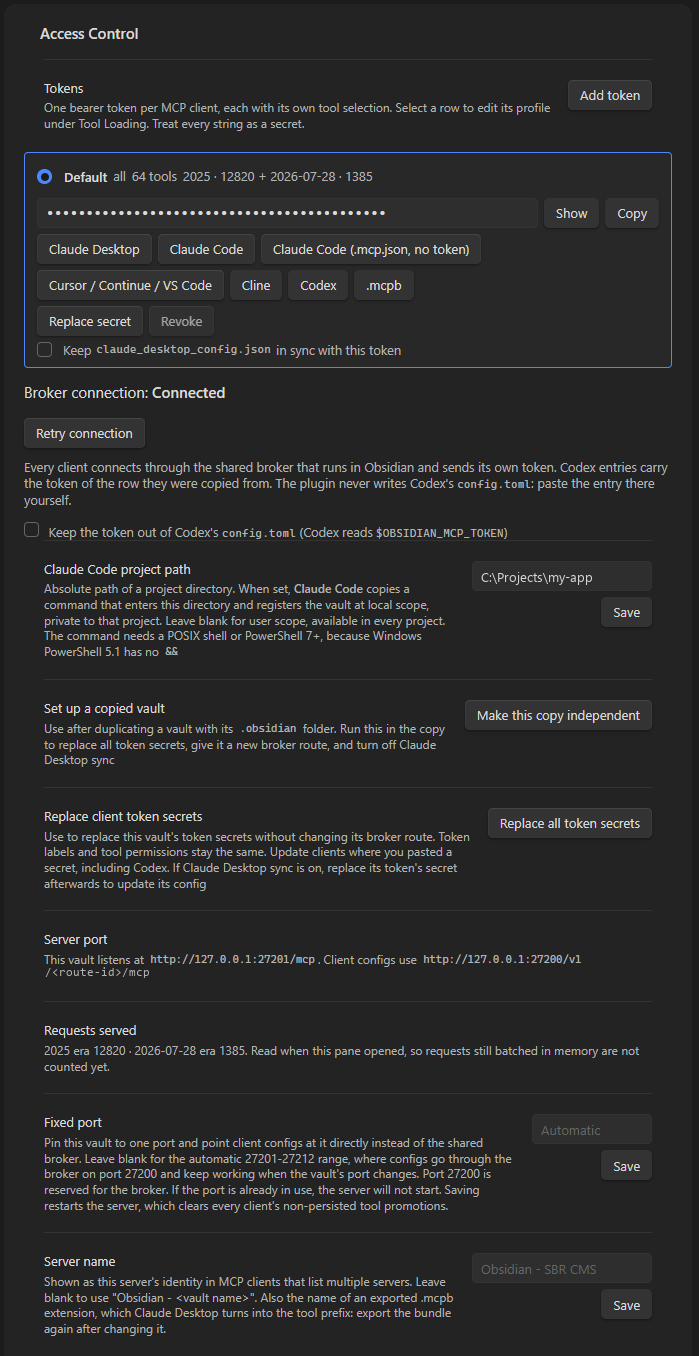
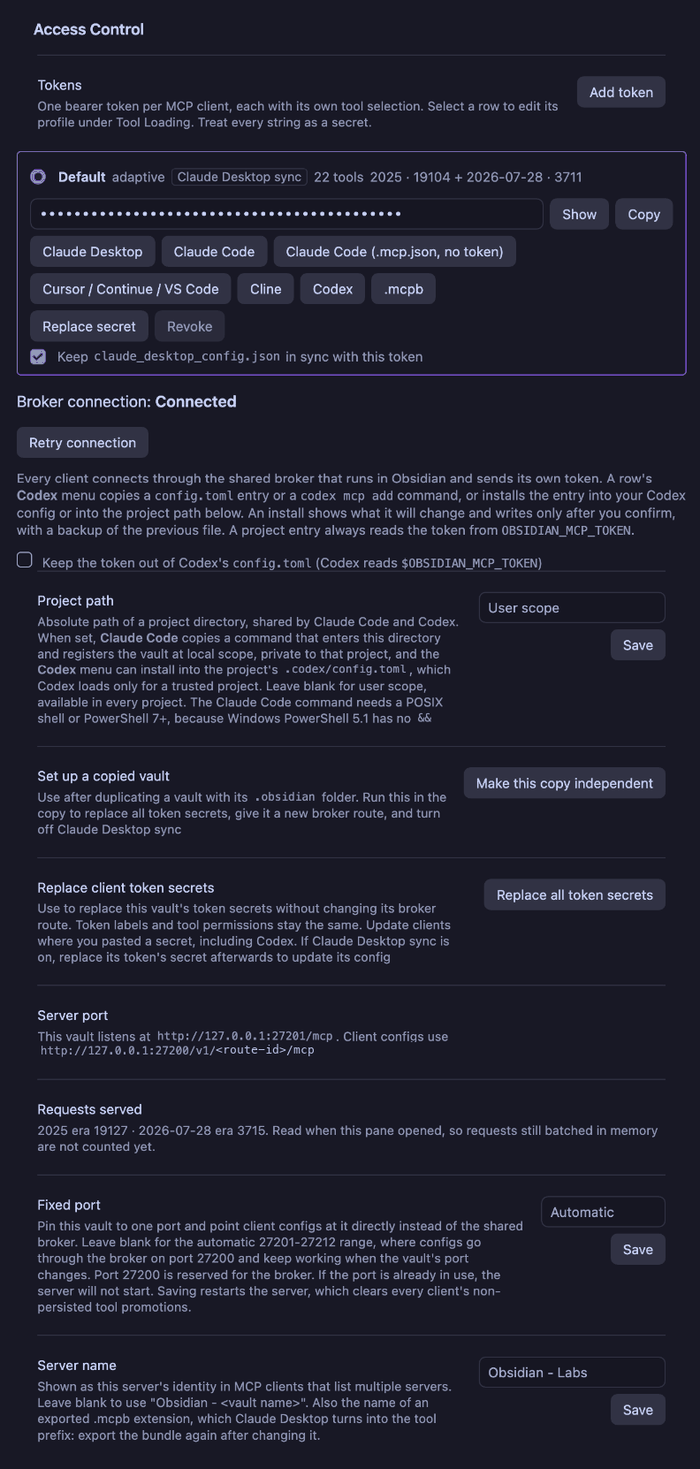
docs: add 3.0.1 troubleshooting row and refresh Access Control image
The README gets a row for the stuck "Vault location changed" case on
linked plugin folders. The screenshot shows the 3.0 settings, with the
route ID masked.

diff --git a/README.md b/README.md
@@ -564,6 +564,7 @@ curl http://127.0.0.1:27200/_obsidian_mcp_broker/health
 | Notice: "Port 27200 is used by another program or by a vault server…" | A vault running an older MCP Connector version, a vault whose fixed port is 27200, or an unrelated program holds the broker port. Update or close that vault, change its fixed port, or stop the program. Direct vault ports keep working meanwhile, and the plugin keeps retrying |
 | Notice: "Another open vault runs the shared broker with a different MCP Connector version" | Update the plugin in every open vault |
 | Broker connection: **Refused** | The broker refused the vault's registration, and the message names the cause and what to change. On macOS and Linux the broker admits a vault only when its `plugins` folder, its plugin folder, `.obsidian/plugins/mcp-tools-istefox` by default, and the `data.json` in it belong to you and are not writable by others or by a group other than your own primary group. `chmod go-w` on each removes that write access. A `data.json` over 1 MB is refused on every system. The route reconnects on its own once the cause is fixed, and the copy buttons give the vault's direct URL meanwhile |
+| Connection says **Vault location changed** after updating from 2.11 or 2.12, and the broker never registers | The plugin folder is a link, such as a development checkout or a synced folder. 3.0.0 saved its location in a different form from 2.x and took the vault for a moved copy. Update to 3.0.1, which recognizes the old form and replaces it on the next start. On 3.0.0, choose **This vault was moved** if this is the same vault, or **Make this copy independent** if it is a copy |
 | `404 route not found` on `/v1/<route-id>/mcp` | The vault that owns this route is not open, or its route changed through **Make this copy independent**. Open that vault, or copy the config again from its token row |
 | `409` on `http://127.0.0.1:27200/mcp` | The config's token exists in more than one open vault, usually a copied vault. In the copy, use **Make this copy independent**, then copy the client config again from the right vault's token row |
 | Codex cannot connect to `127.0.0.1:27206`, or gets `401` after an upgrade | The broker moved to port 27200 and no longer swaps a Codex credential. On the token row Codex should use, choose **Codex** → **Install into user Codex config…**: The install migrates the old entry to the current address and that row's token, keeping its policy settings. Then restart Codex |

diff --git a/CHANGELOG.md b/CHANGELOG.md
@@ -11,6 +11,11 @@ Format follows [Keep a Changelog](https://keepachangelog.com/en/1.1.0/), version
 
 - **A vault with a linked plugin folder no longer stays on "Vault location changed" after updating from 2.11 or 2.12.** 3.0.0 saves the plugin folder under its own name, where 2.x saved the link's target, so a saved route looked like a moved vault and the broker never registered it. The old form is now recognized as the same file and replaced by the current one on the next start. A copied vault still has to be confirmed as moved or made independent
 
+### Documentation
+
+- **README troubleshooting covers the stuck "Vault location changed" case.** A new row names the linked plugin folder as the cause and says what to choose on 3.0.0 and what 3.0.1 does on its own.
+- **The Access Control screenshot shows the 3.0 settings.** It replaces the image that still had the old Codex button, and the route ID is masked.
+
 ## [3.0.0] — 2026-10-08
 
 > **3.0.0 is a major release: every client now connects through one shared broker inside Obsidian.** Two changes are breaking. Existing Codex entries return `401` until you reinstall them from the new **Codex** menu on a token row, and vault ports moved to 27201-27212. The steps are in [Upgrading from 2.x](README.md#upgrading-from-2x).
